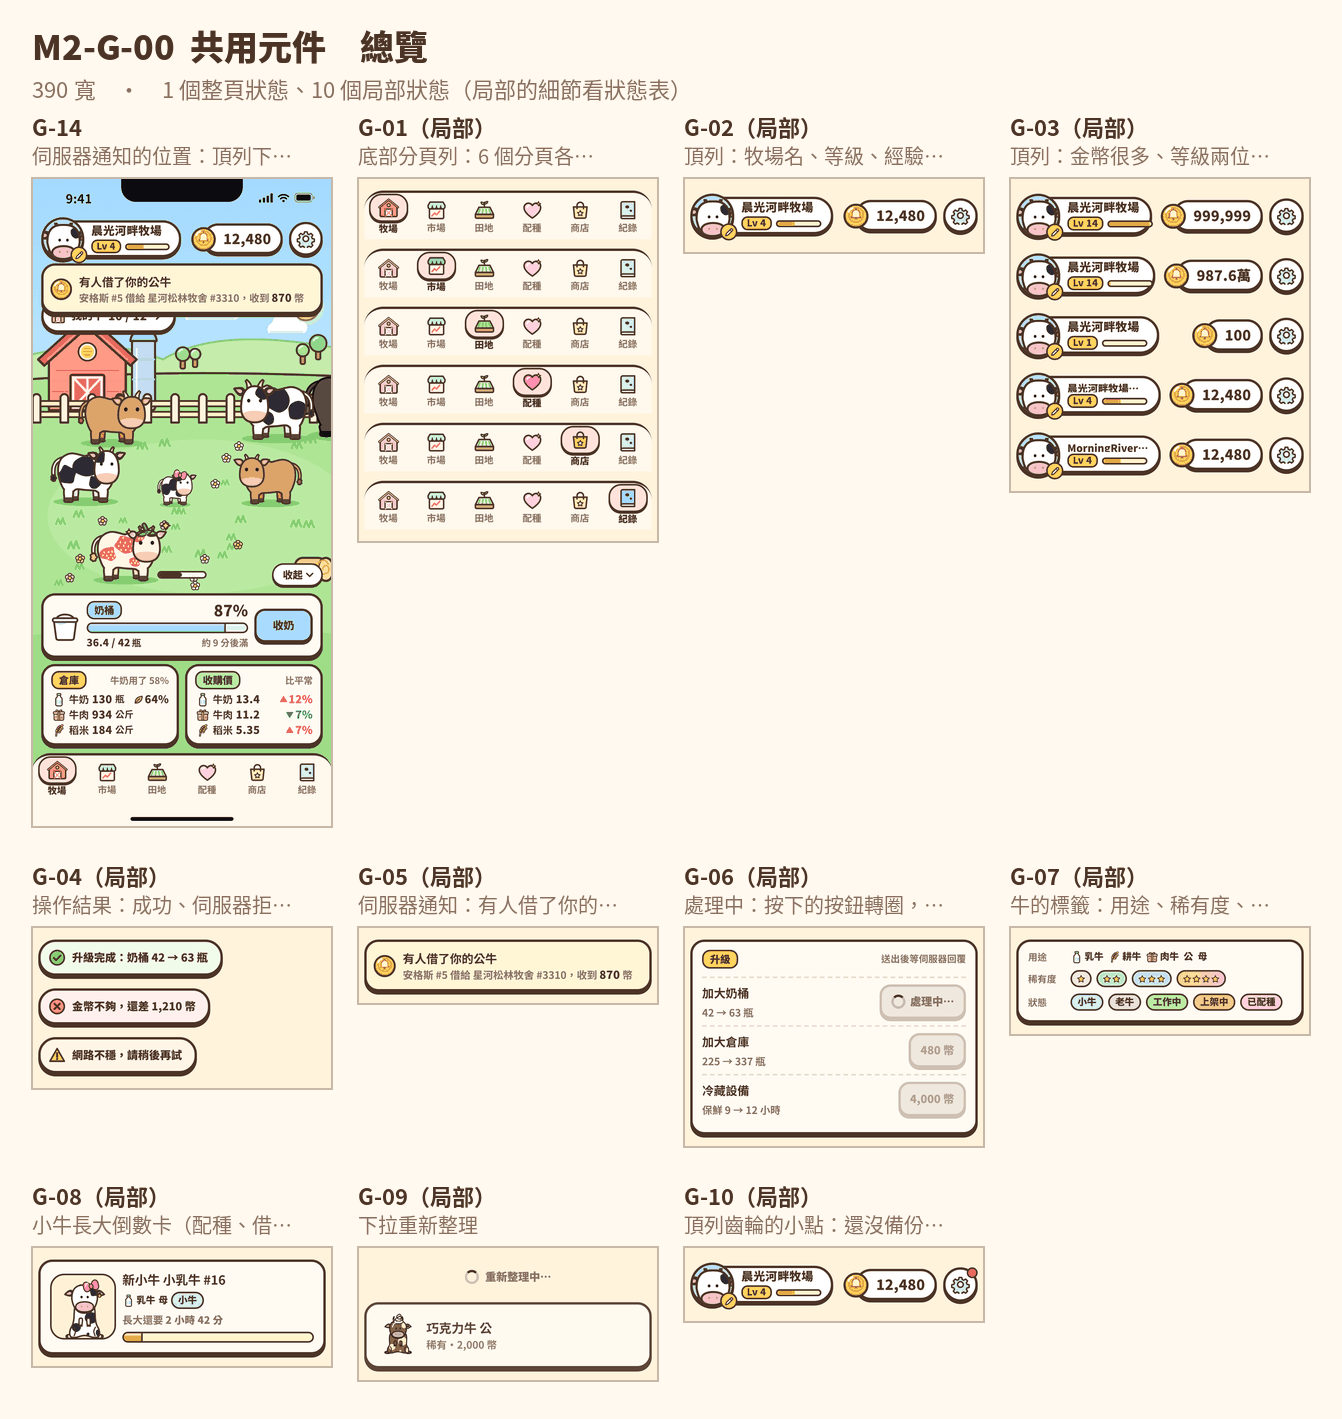
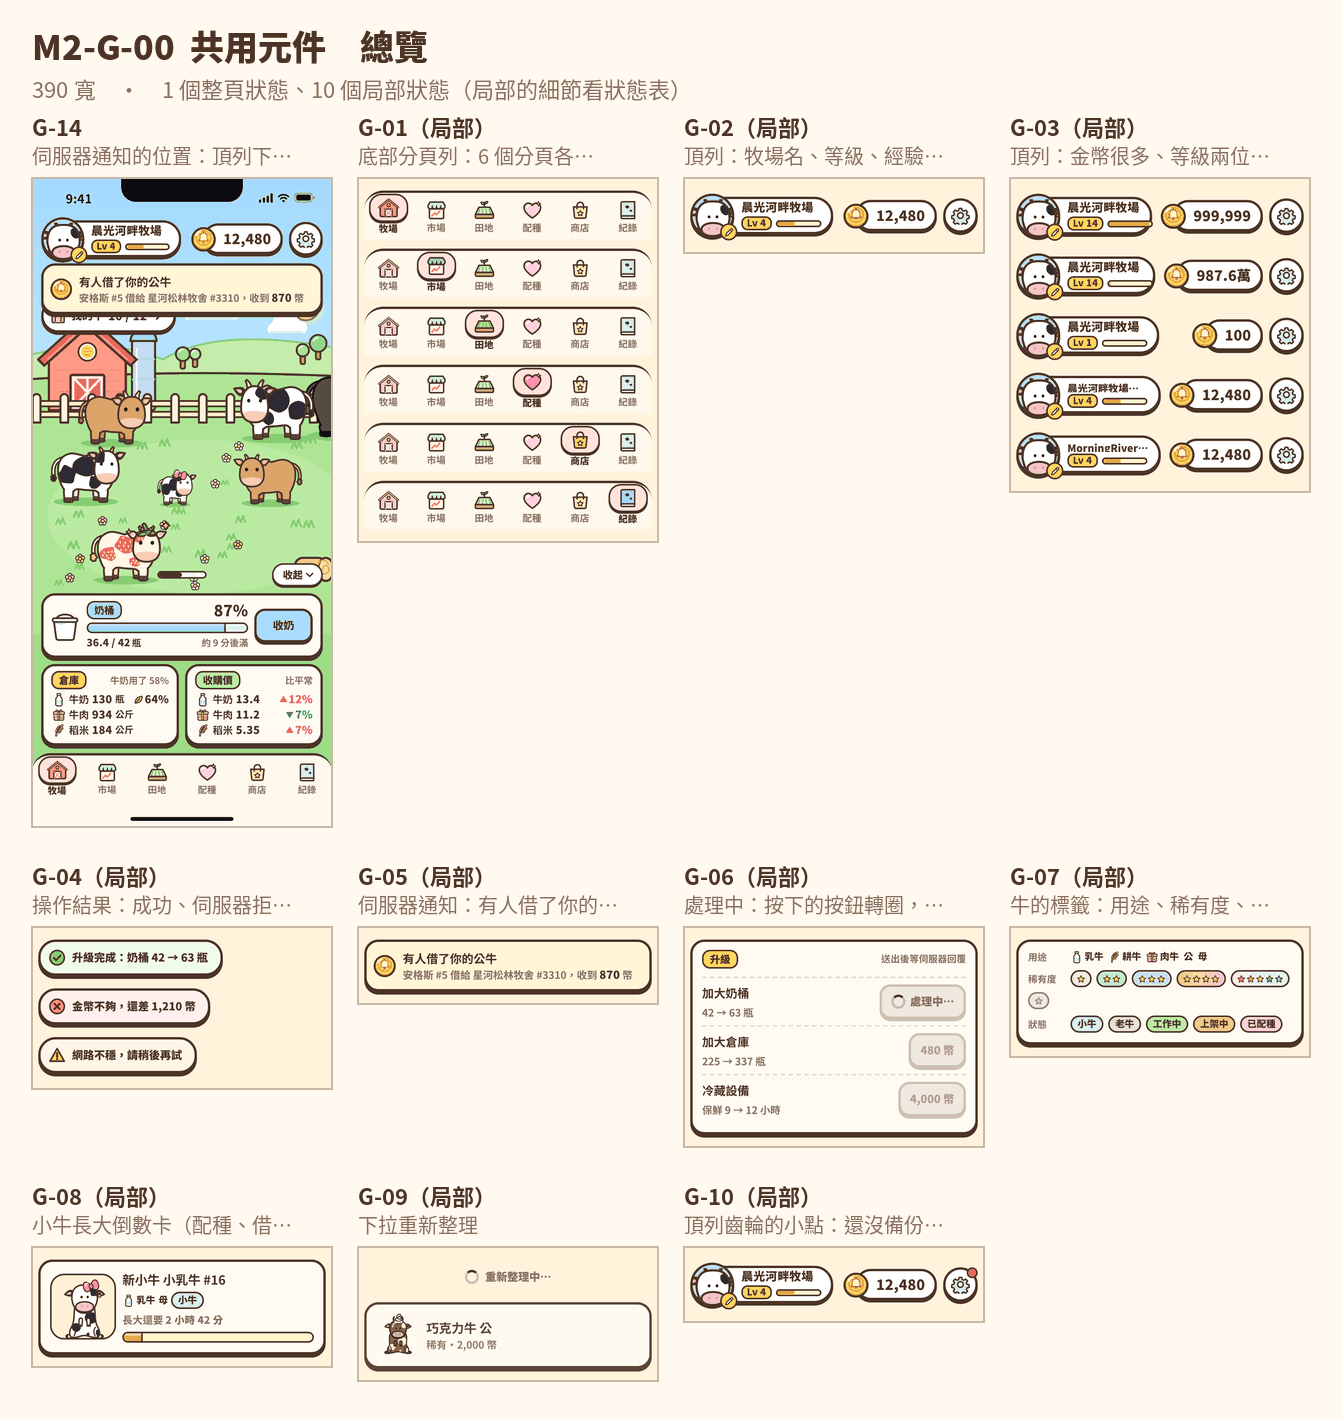
PR 4 續：特殊牛的彩虹星改成 5 顆一顆一個顏色（紅橙黃綠藍、外面描一圈白；11 px 時漸層會糊成綠色），素材 starRainbow1～5；G-07 重拍、合成

Changed region(s): [[0.7332, 0.6822, 0.9776, 0.7442]]

diff --git a/design/m2/src/js/icons.js b/design/m2/src/js/icons.js
@@ -69,8 +69,8 @@ const I = {
   // v0.3 第 5 節（第 13 輪 04-A）：溫度計（病牛的標籤、頭上的泡泡）、大便（霜淇淋捲；牧場場景裡的大便也是這張）
   thermo: (s = 16) => `<svg viewBox="0 0 20 20" width="${s}" height="${s}">${THERMO_INNER}</svg>`,
   // 雜種牛的稀有度：1 顆灰星（使用者 2026-10-08；一般的稀有度用上面的 star，一般 1、優良 2、稀有 3、傳說 4 顆）
-  // 特殊牛的稀有度：5 顆彩虹星（使用者 2026-10-08 選第 16 輪 02-B）。小的時候顏色容易糊在一起：外面先描一圈白（像貼紙），再畫彩虹和深色的線
-  starRainbow: (s = 11) => `<svg viewBox="0 0 20 20" width="${s}" height="${s}"><defs><linearGradient id="starRbw" x1="0.1" y1="0.1" x2="0.9" y2="0.9"><stop offset="0" stop-color="#FF6F91"/><stop offset="0.35" stop-color="#FFC93C"/><stop offset="0.65" stop-color="#5FCF8F"/><stop offset="1" stop-color="#5E9BFF"/></linearGradient></defs><path d="M10 1.8l2.5 5.2 5.6.7-4.1 3.9 1 5.6L10 14.5l-5 2.7 1-5.6-4.1-3.9 5.6-.7z" fill="none" stroke="#FFFFFF" stroke-width="3.6" stroke-linejoin="round"/><path d="M10 1.8l2.5 5.2 5.6.7-4.1 3.9 1 5.6L10 14.5l-5 2.7 1-5.6-4.1-3.9 5.6-.7z" fill="url(#starRbw)" stroke="${L}" stroke-width="1.8" stroke-linejoin="round"/></svg>`,
+  // 特殊牛的稀有度：5 顆彩虹星（使用者 2026-10-08 選第 16 輪 02-B）。一顆一個顏色（紅、橙、黃、綠、藍），排在一起就是彩虹；
+  // 小的時候漸層會糊成一個顏色，所以不用漸層。外面先描一圈白（像貼紙），在淡彩虹的底上才分得開
   starGray: (s = 11) => `<svg viewBox="0 0 20 20" width="${s}" height="${s}"><path d="M10 1.8l2.5 5.2 5.6.7-4.1 3.9 1 5.6L10 14.5l-5 2.7 1-5.6-4.1-3.9 5.6-.7z" fill="#D3C9BE" stroke="#8A7E72" stroke-width="1.8" stroke-linejoin="round"/></svg>`,
   poop: (s = 22) => `<svg viewBox="-12 -19 24 22" width="${s}" height="${Math.round(s * 22 / 24)}">${poopG(0, 0, 20)}</svg>`,
 };
@@ -84,6 +84,10 @@ const TAB = {
   shop: (on) => `<svg viewBox="0 0 34 34" width="28" height="28"><path d="M6.5 12h21l-1.6 15.4a2.2 2.2 0 0 1-2.2 2H10.3a2.2 2.2 0 0 1-2.2-2z" fill="${on ? '#FFD45E' : '#FFEAB0'}" stroke="${L}" stroke-width="2.3" stroke-linejoin="round"/><path d="M12 14.5V9.8a5 5 0 0 1 10 0v4.7" fill="none" stroke="${L}" stroke-width="2.3" stroke-linecap="round"/><path d="M17 17.6l1.3 2.7 3 .4-2.2 2 .6 2.9-2.7-1.4-2.7 1.4.6-2.9-2.2-2 3-.4z" fill="#FFFFFF" stroke="${L}" stroke-width="1.5" stroke-linejoin="round"/></svg>`,
   records: (on) => `<svg viewBox="0 0 34 34" width="28" height="28"><path d="M6 6.5A2.5 2.5 0 0 1 8.5 4H27v22H8.5A2.5 2.5 0 0 0 6 28.5z" fill="${on ? '#9FD2FF' : '#D5EBFF'}" stroke="${L}" stroke-width="2.3" stroke-linejoin="round"/><path d="M6 28.5A2.5 2.5 0 0 1 8.5 26H27v4H8.5A2.5 2.5 0 0 1 6 28.5z" fill="#FFFFFF" stroke="${L}" stroke-width="2.3" stroke-linejoin="round"/><path d="M13 10.5c2-1.6 5-1.2 5.6 1 .6 2.4-2 3.4-3.8 2.8-1.8-.6-3.2-2.4-1.8-3.8zM20 16.5c1.5-.8 3.4 0 3.2 1.6-.2 1.5-2.2 1.9-3.2 1-1-.8-.9-2.1 0-2.6z" fill="${L}"/></svg>`,
 };
+
+// 彩虹星 starRainbow1～5（tierChip(4) 照順序用）
+export const RAINBOW = ['#FF6B7A', '#FF9F43', '#FFD23F', '#4CC97A', '#4C9BFF'];
+RAINBOW.forEach((c, k) => { I[`starRainbow${k + 1}`] = (s = 11) => `<svg viewBox="0 0 20 20" width="${s}" height="${s}"><path d="M10 1.8l2.5 5.2 5.6.7-4.1 3.9 1 5.6L10 14.5l-5 2.7 1-5.6-4.1-3.9 5.6-.7z" fill="none" stroke="#FFFFFF" stroke-width="3.6" stroke-linejoin="round"/><path d="M10 1.8l2.5 5.2 5.6.7-4.1 3.9 1 5.6L10 14.5l-5 2.7 1-5.6-4.1-3.9 5.6-.7z" fill="${c}" stroke="${L}" stroke-width="1.8" stroke-linejoin="round"/></svg>`; });
 
 // 圖示的名字（素材匯出用）
 export const ICON_NAMES = Object.keys(I), TAB_KEYS = Object.keys(TAB);

diff --git a/design/m2/src/js/kit.js b/design/m2/src/js/kit.js
@@ -324,7 +324,7 @@ export const badge = (kind, text) => `<span class="badge ${kind}">${text}</span>
 export const sickBadge = () => badge('sick', `${icon('thermo', 13)}${t('badgeSick')}`);
 // 稀有度（使用者 2026-10-08 選第 15 輪 02-A「只有星星」；稀有度是 1–5 星的通用等級）：一般 1、優良 2、稀有 3、傳說 4 顆星，底色照原本的稀有度顏色。
 // 名字不寫在標籤上（念給讀螢幕的人聽：aria-label）。特殊牛 5 顆彩虹星（tierChip(4)）
-export const tierChip = (n) => `<span class="tier tier-${n} stars" aria-label="${tierName(n)}">${icon(n === 4 ? 'starRainbow' : 'star', 11).repeat(n + 1)}</span>`;
+export const tierChip = (n) => `<span class="tier tier-${n} stars" aria-label="${tierName(n)}">${n === 4 ? [1, 2, 3, 4, 5].map((k) => icon(`starRainbow${k}`, 11)).join('') : icon('star', 11).repeat(n + 1)}</span>`;
 // n = 4：特殊牛 5 顆彩虹星（第 16 輪 02-B；特殊牛等小遊戲的 PR 收進來，這裡先定好樣子）
 // 雜種牛：一律 1 顆灰星（使用者 2026-10-08）。放在稀有度的位置；詳細頁、揭曉卡旁邊照舊寫「雜種」
 export const mixStar = () => `<span class="tier stars mix-star" aria-label="${t('badgeMix')}">${icon('starGray', 11)}</span>`;

diff --git a/design/m2/scope.md b/design/m2/scope.md
@@ -77,7 +77,8 @@
   - 有對話框、面板開著時（例：升級慶祝、出貨確認、選牛的面板）先排隊，關掉以後再出來。
 
 - 稀有度用星星（使用者 2026-10-08 選第 15 輪 02-A「只有星星」，D35 補充 4）：
-  - 稀有度是 1–5 星的通用等級：現在的 24 種是一般 1、優良 2、稀有 3、傳說 4 顆星；特殊牛 5 星（星星換一種顏色，等第 16 輪使用者選，跟特殊牛一起畫）；以後的新牛照稀有程度給 1–5 星。
+  - 稀有度是 1–5 星的通用等級：現在的 24 種是一般 1、優良 2、稀有 3、傳說 4 顆星；特殊牛 5 星；以後的新牛照稀有程度給 1–5 星。
+  - 特殊牛的 5 星是彩虹（使用者 2026-10-08 選第 16 輪 02-B）：5 顆一顆一個顏色（紅、橙、黃、綠、藍，圖示 `starRainbow1`～`starRainbow5`），每顆外面描一圈白，底是淡彩虹（`.tier-4`）。不用漸層：星星 11 px 時漸層會糊成一個顏色。元件表 G-07 的稀有度那一排有全部的樣子。特殊牛本身跟小遊戲的 PR 一起收進來。
   - 稀有度的標籤（`kit.js` 的 `tierChip`）只放星星，不寫名字（讀螢幕念 `tier0`～`tier3` 的名字）。底色照原本的稀有度顏色，星星用圖示 `star`，大小 11、間隔 1、左右 6；圖鑑格子裡的標籤高 20。
   - 雜種牛一律 1 顆灰星（`mixStar`，圖示 `starGray`），放在稀有度的位置（牛舍清單、名片、田地、選牛卡都一樣：`rarityChip`，雜種牛的品種 `mix` 是 true 就畫灰星，不要照基因的稀有度畫金星）；牛的詳細、揭曉卡、圖鑑詳細旁邊照舊加「雜種」標籤。
   - 商店的機率（S19-01、S19-05「長大可能是：」）稀有度那一行也換成星星＋機率。
